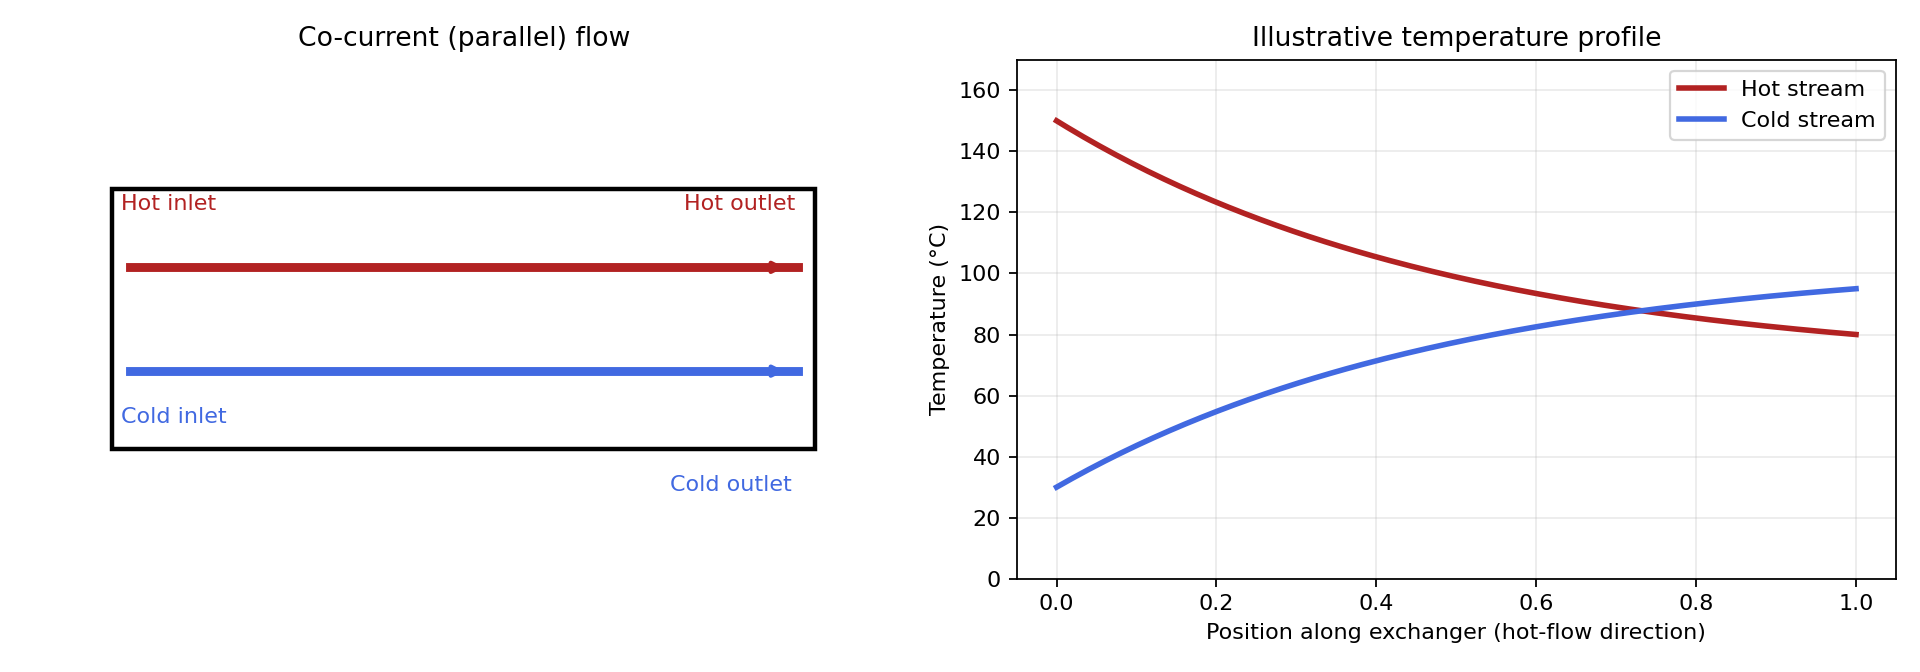
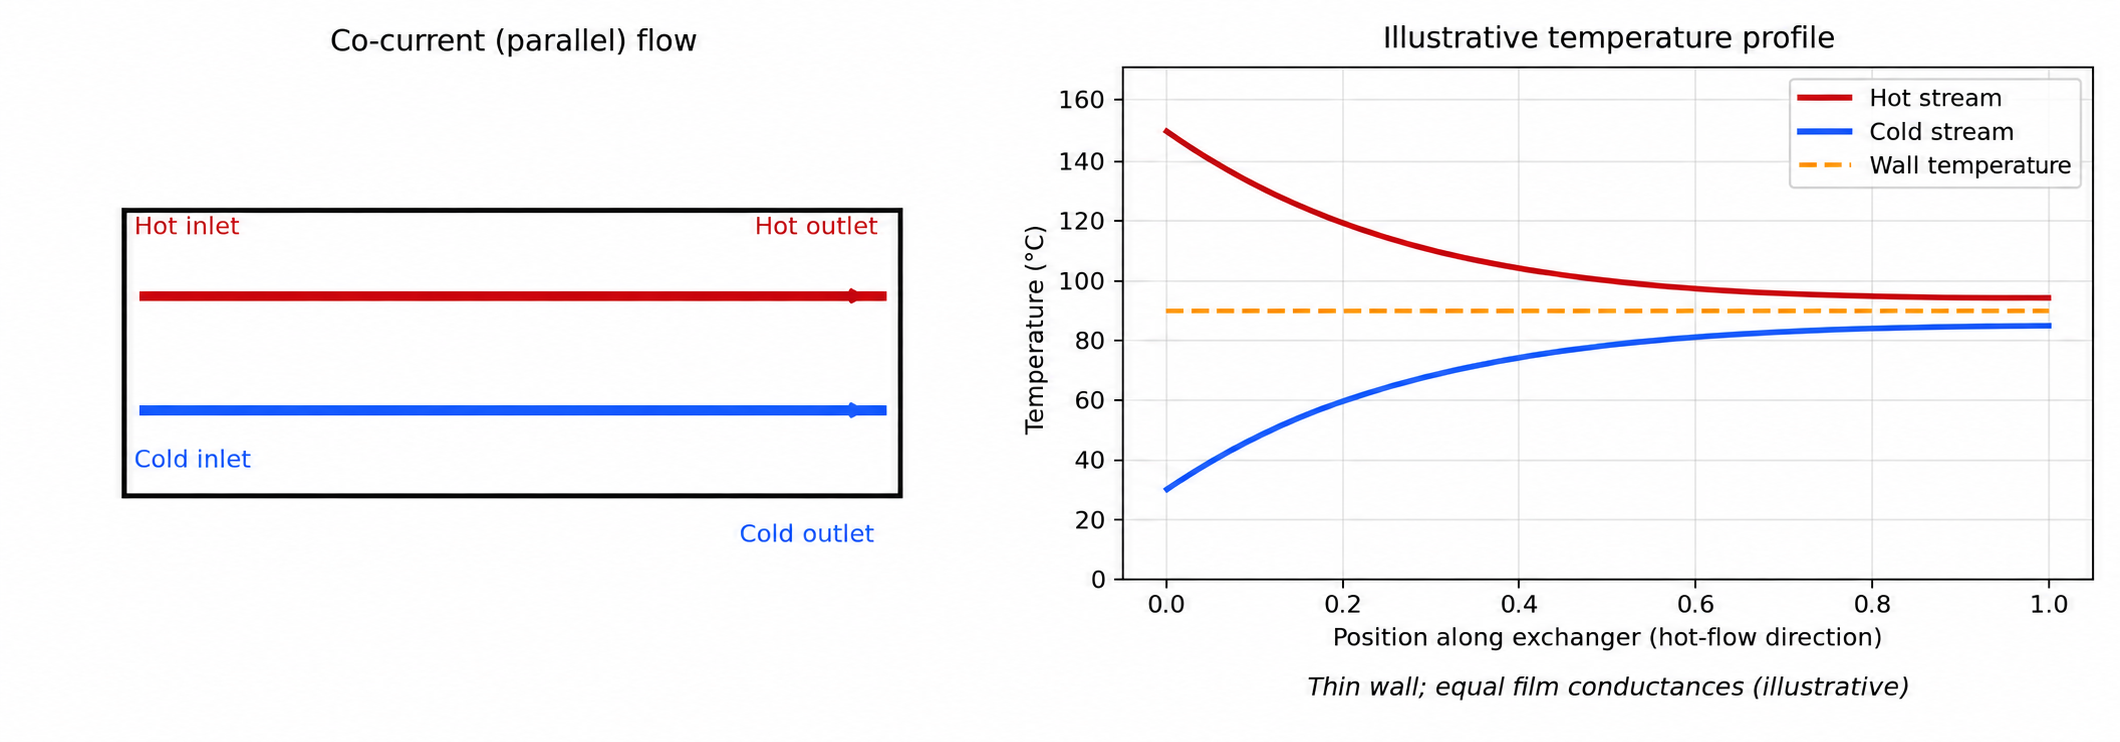
update: heat exchanger

diff --git a/boiler-course/part-2-process-equipment/17-heat-exchangers.md b/boiler-course/part-2-process-equipment/17-heat-exchangers.md
@@ -16,9 +16,11 @@ For constant specific heats, use $\dot Q=\dot m c_p\Delta T$. Here $\dot m$ is m
 
 ## 17.2 Co-current (parallel) flow
 
-![Parallel-flow arrangement and temperature profiles](../../assets/heat-exchangers/cocurrent.png)
+![Parallel-flow arrangement with hot-stream, cold-stream and wall-temperature profiles](../assets/heat-exchangers/cocurrent.png)
 
 Both streams enter at the **same end** and travel in the **same direction**. The temperature difference is greatest near the inlet and typically shrinks toward the outlet. For sensible heating with no external work, the cold outlet cannot exceed the hot outlet in an ideal co-current exchanger. This arrangement is straightforward but often needs more heat-transfer area than counter-current flow for the same duty.
+
+The dashed orange line shows the **wall temperature** between the two fluid temperatures. This illustration assumes steady sensible heat transfer, equal heat-capacity rates, a thin wall with negligible through-wall temperature drop, and equal hot- and cold-side film conductances. Under these assumptions, $T_w=(T_h+T_c)/2$ and remains at 90 °C while the hot stream cools from 150 °C to approximately 95 °C and the cold stream warms from 30 °C to approximately 85 °C. In general, wall temperature varies with position and the relative film resistances; a wall with appreciable thermal resistance has different hot- and cold-facing surface temperatures.
 
 ## 17.3 Counter-current flow
 
@@ -27,6 +29,34 @@ Both streams enter at the **same end** and travel in the **same direction**. The
 The streams move in **opposite directions**. A more even temperature difference is maintained along the exchanger, which usually gives a higher log-mean temperature difference (LMTD) for the same terminal temperatures. The cold outlet can be hotter than the hot outlet (but not hotter than the hot inlet), without violating the second law.
 
 **Graph convention:** The horizontal axis in both illustrations follows the *hot-fluid direction*. In counter-current flow the cold fluid travels from right to left; therefore its temperature can decrease when plotted left-to-right, even though it heats up along its own direction of travel.
+
+### Radiant heat exchanger: a furnace
+
+![Furnace radiation to a tube wall, with gas, outer-wall, inner-wall and fluid temperatures](../assets/heat-exchangers/furnace-radiation.svg)
+
+A boiler furnace acts as a **radiant heat exchanger**: the flame, radiating combustion gases and hot surroundings transfer energy to water-wall tubes. Heat reaches the outside of the tube by radiation and gas convection, passes through the metal by conduction, and enters the water or steam by convection or boiling. Radiation is a heat-transfer mechanism; it does not define a co-current or counter-current flow arrangement.
+
+For this course calculation, use the **furnace exit flue-gas temperature** $T_{fg,exit}$ as the **hot-side temperature**. In the lumped model, set both the effective radiation-source temperature and the gas-side convection temperature to this value: $T_r=T_g=T_{fg,exit}$. This is a modeling approximation: actual flame and local gas temperatures can be higher than the furnace exit temperature.
+
+![Illustrative furnace temperature profiles along the flue-gas path, with outer and inner tube-wall temperatures, boiling-fluid temperature and the furnace exit temperature used for the calculation](../assets/heat-exchangers/furnace-temperature-profile.svg)
+
+**Profile convention:** Like the co-current and counter-current plots, the horizontal axis follows the hot-gas direction. Here it starts after the flame zone and ends at the furnace exit. The illustrative flue-gas curve cools from 1600 °C to **927 °C (1200 K)** at the exit. The tube-wall curves remain above the boiling-fluid temperature of 300 °C and approach it as heat flux decreases. The dashed horizontal reference marks $T_{fg,exit}$, the hot-side input used throughout the simplified lumped calculation; the falling gas curve illustrates spatial behavior rather than a temperature distribution calculated by that lumped model. These curves assume boiling at nearly constant pressure, so fluid temperature stays approximately constant while steam quality increases.
+
+The simplified radiation calculation is therefore:
+
+$$\dot Q_{rad}=\varepsilon_{eff}\sigma A\left(T_{fg,exit}^4-T_{w,o}^4\right)$$
+
+Here $T_{fg,exit}$ is the furnace exit flue-gas temperature used for the hot side, $T_{w,o}$ is the outer tube-wall temperature, $A$ is the receiving area, and $\sigma=5.6704\times10^{-8}\ \mathrm{W/(m^2\,K^4)}$. **Use absolute temperatures in kelvin.** The effective exchange factor $\varepsilon_{eff}$ represents emissivity and geometry for this simplified model; detailed furnace models must also account for participating gases, soot and enclosure radiation.
+
+The gas-side convective contribution is $\dot Q_{conv}=h_gA(T_{fg,exit}-T_{w,o})$. At steady state, neglecting losses, the combined heat input equals heat conducted through the tube and absorbed by the working fluid:
+
+$$\dot Q_{rad}+\dot Q_{conv}=\frac{T_{w,o}-T_{w,i}}{R_{wall}}=h_iA_i(T_{w,i}-T_f)=\dot m_f(h_{out}-h_{in}).$$
+
+The subscripts $o$ and $i$ denote outer and inner wall surfaces; $T_f$ is the local bulk-fluid temperature and $R_{wall}$ is the total wall conduction resistance in K/W. During normal heat absorption, the outer wall is hotter than the inner wall, which is hotter than the fluid. Wall temperature is determined by the heat flux and thermal resistances. It is generally **not the average** of furnace and fluid temperatures. During boiling at nearly constant pressure, fluid temperature stays near saturation while steam quality increases.
+
+**Worked example:** With furnace exit temperature $T_{fg,exit}=1200\ \mathrm{K}$ (approximately 927 °C), $T_{w,o}=600\ \mathrm{K}$, $\varepsilon_{eff}=0.8$ and $A=10\ \mathrm{m^2}$, the radiative heat input is approximately $0.882\ \mathrm{MW}$, before adding gas convection. This is a radiation calculation with an assumed wall temperature; solve the coupled wall and fluid balances to predict that temperature.
+
+For a dynamic PsxCad model, include combustion heat release in the furnace energy balance and use $\dot Q_{rad}+\dot Q_{conv}$ as heat input to the wall state described in Section 17.6. Use the calculated furnace exit temperature as the hot-side input and recalculate radiation as that temperature and the wall temperature change; a fixed $UA$ or the flow exponent 0.6 alone cannot capture its fourth-power temperature dependence.
 
 ## 17.4 LMTD and heat duty
 
@@ -81,8 +111,9 @@ where $C_w=m_wc_{p,w}$ (J/K). The hot and cold streams also require mass/energy 
 5. Change one flow from 100% to 50% and trend inlet/outlet temperatures, $UA$, heat duty and energy-balance residual.
 6. Add a metal thermal-capacity state; compare instantaneous steady-state behavior with the transient response.
 7. Verify that heat lost by the hot stream equals heat gained by the cold stream plus any modeled storage and losses.
+8. Add a furnace variant with radiation and gas convection. Step the combustion heat release and trend furnace exit flue-gas, wall and fluid temperatures, radiative duty and steam production. Include wall storage in the transient energy balance.
 
-**Suggested signals:** `M_HOT`, `M_COLD`, `T_HOT_IN`, `T_COLD_IN`, `T_HOT_OUT`, `T_COLD_OUT`, `UA_DESIGN`, `UA_ACTUAL`, `Q_TRANSFER`, `T_WALL`.
+**Suggested signals:** `M_HOT`, `M_COLD`, `T_HOT_IN`, `T_COLD_IN`, `T_HOT_OUT`, `T_COLD_OUT`, `UA_DESIGN`, `UA_ACTUAL`, `Q_TRANSFER`, `T_WALL`, `T_FG_EXIT`.
 
 ## 17.8 Review questions
 
@@ -91,3 +122,4 @@ where $C_w=m_wc_{p,w}$ (J/K). The hot and cold streams also require mass/energy 
 3. If flow falls to 50% of design, why does heat duty not necessarily fall to 66%?
 4. When should a simple LMTD model be replaced by a segmented dynamic model?
 5. Which thermal masses explain a delayed outlet-temperature response after a flow change?
+6. Why must radiation calculations use kelvin, and why is the furnace tube-wall temperature generally not the average of the source and fluid temperatures?
